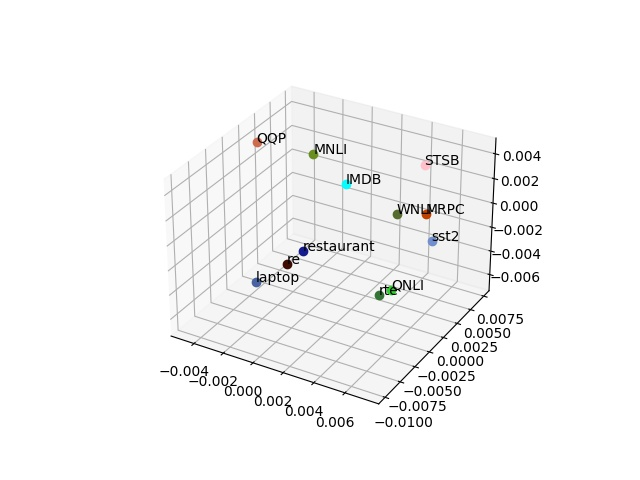
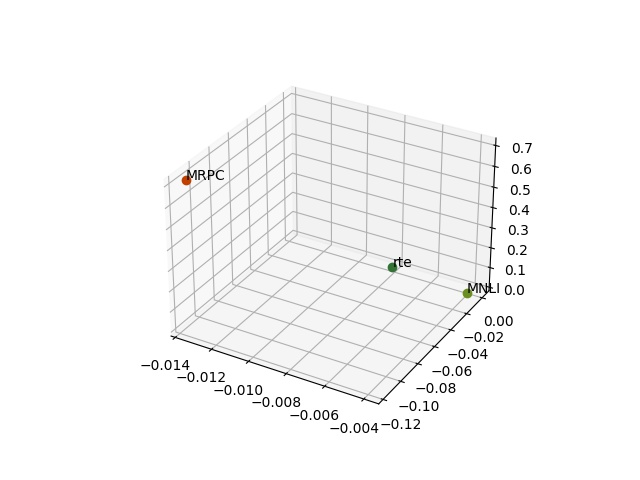
update

Changed region(s): [[0.2188, 0.1875, 0.8438, 0.9062]]

diff --git a/draw_cuda_taskprompt.py b/draw_cuda_taskprompt.py
@@ -505,8 +505,10 @@ for task_id, task_name in task_map.items():
     print(task_id)
     if task_id in blocked_list:
         continue
-
-    print(compressed_prompt_emb[task_id])
+    try:
+        print(compressed_prompt_emb[task_id])
+    except:
+        continue
 
     if dim == 2:
         ###
